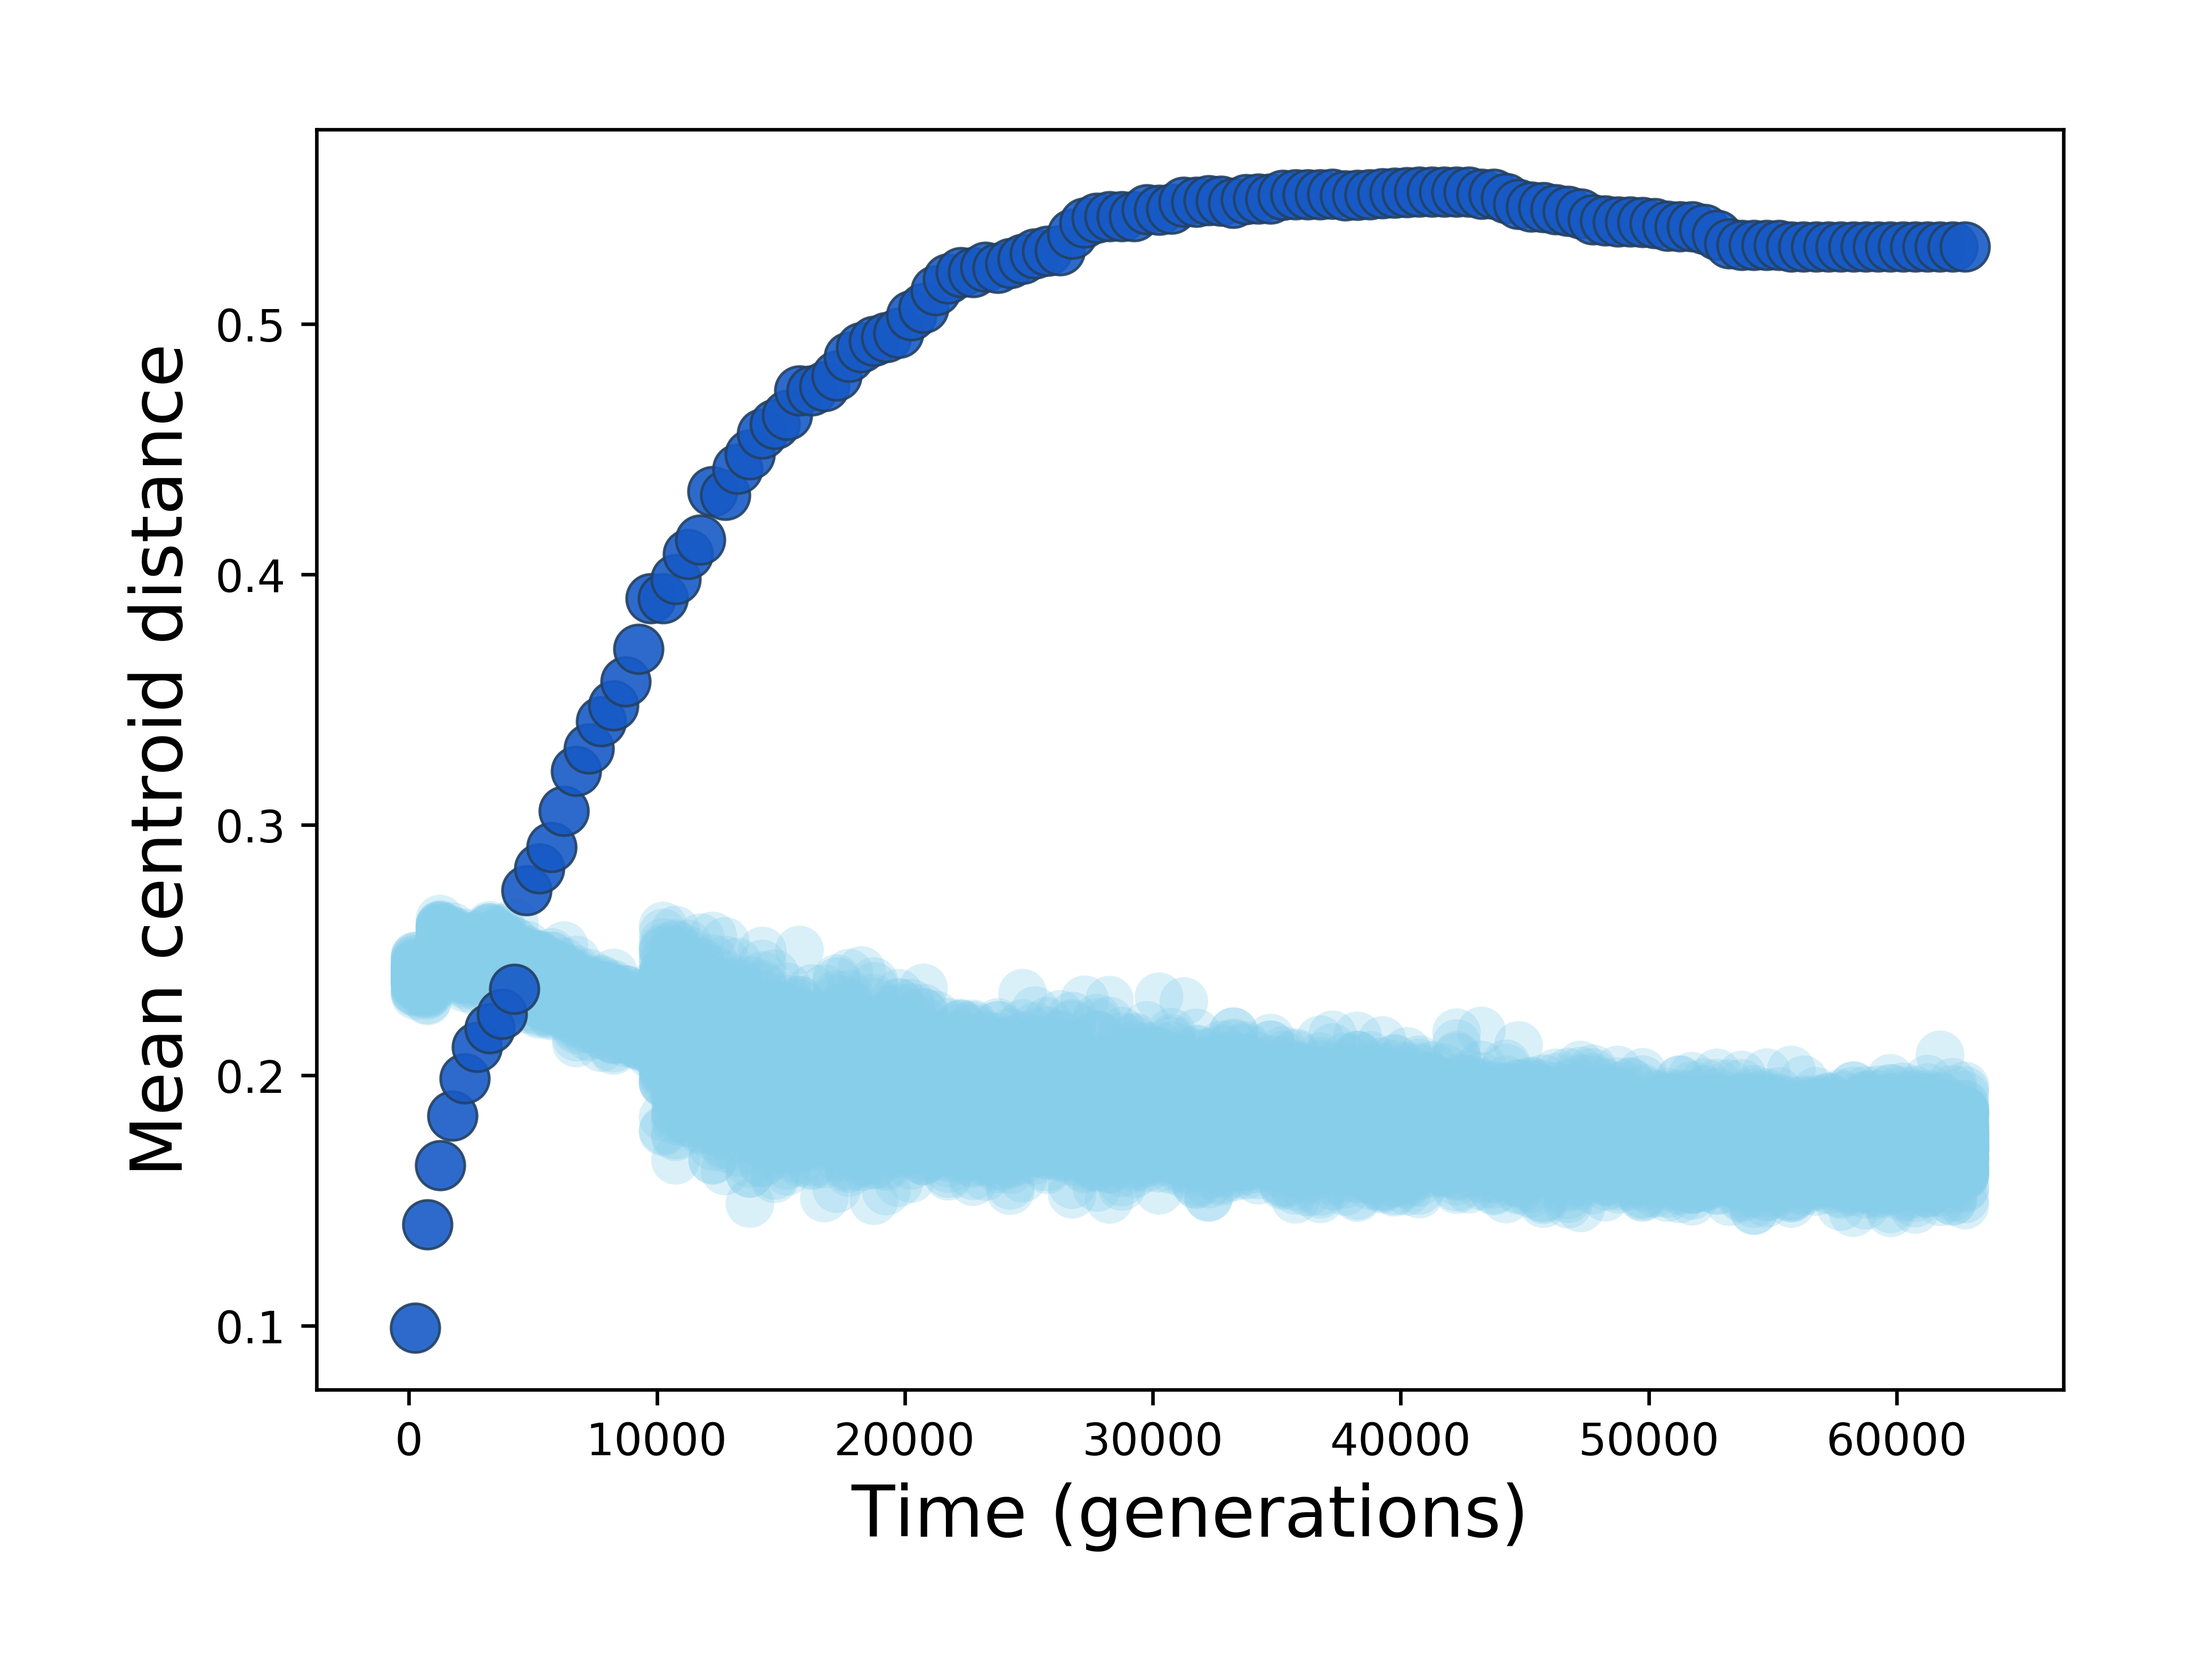
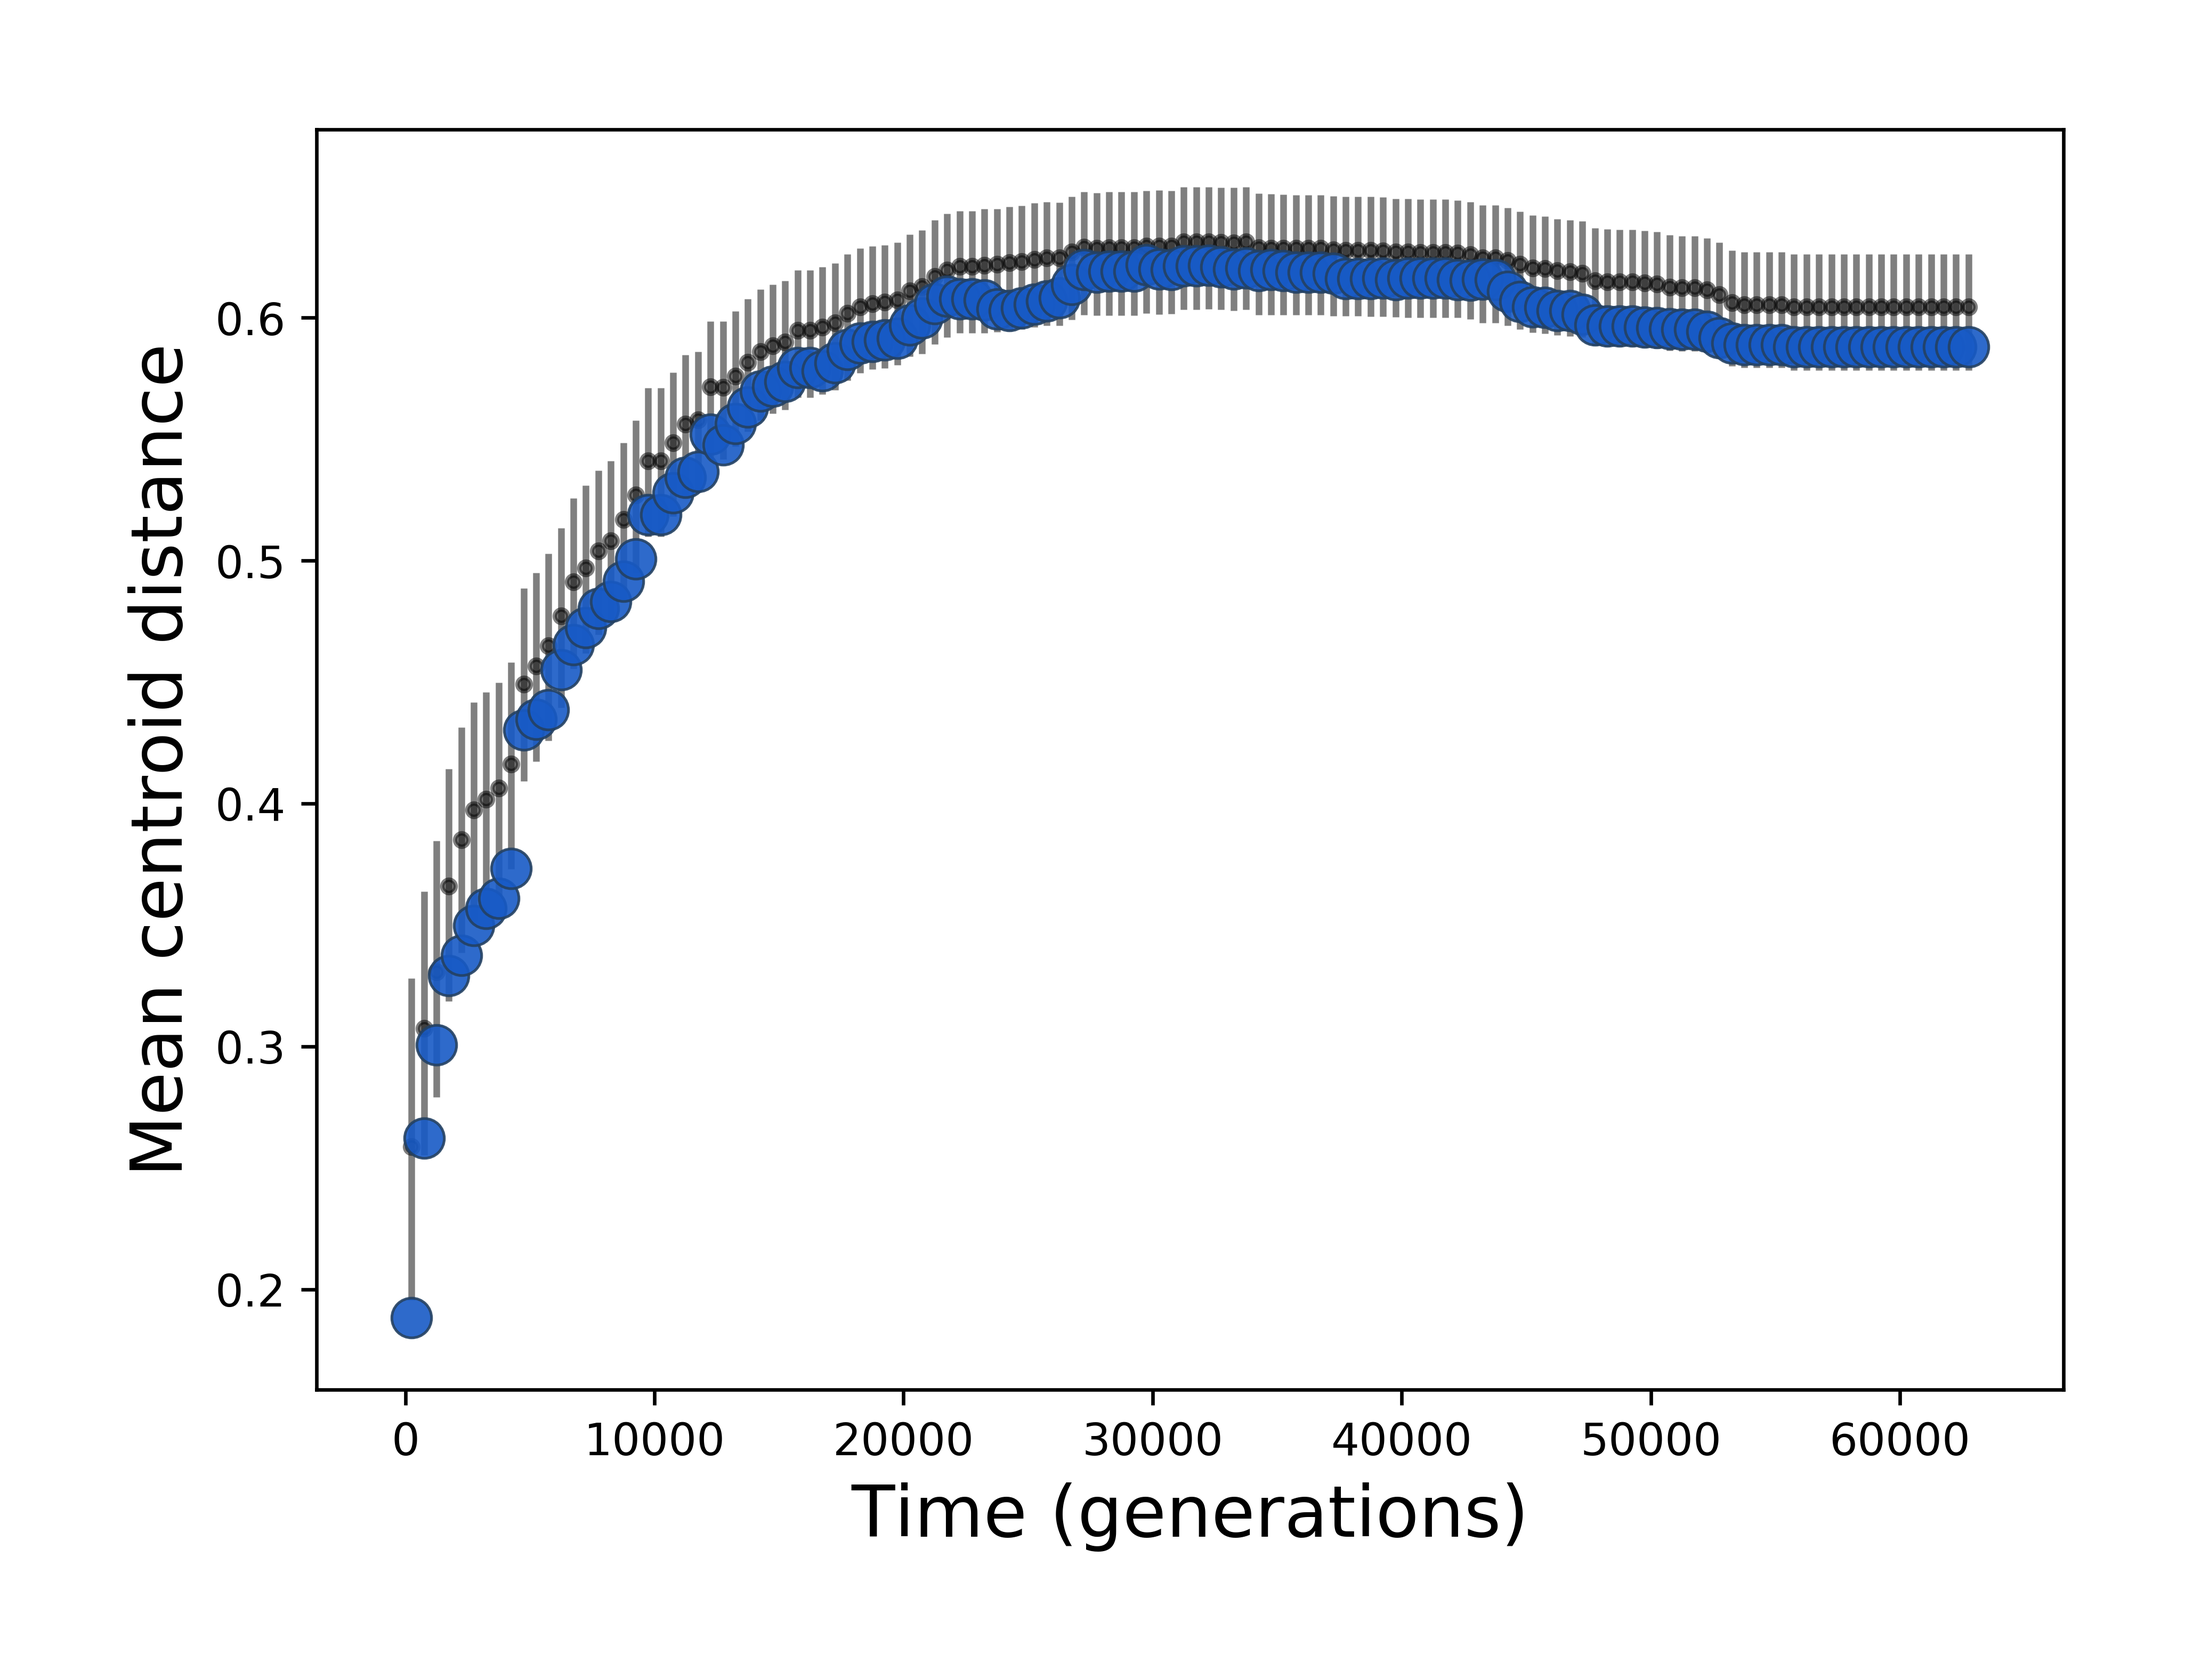
permutation_scatter_good.

diff --git a/Python/make_figs.py b/Python/make_figs.py
@@ -118,7 +118,7 @@ def plot_pcoa(dataset):
 
 
 
-def plot_permutation(dataset, analysis = 'PCA'):
+def plot_permutation(dataset, analysis = 'PCA', alpha = 0.05):
     if dataset == 'tenaillon':
         df_path = pt.get_path() + '/data/Tenaillon_et_al/gene_by_pop.txt'
         df = pd.read_csv(df_path, sep = '\t', header = 'infer', index_col = 0)
@@ -155,16 +155,69 @@ def plot_permutation(dataset, analysis = 'PCA'):
         fig.savefig(plot_out, bbox_inches = "tight", pad_inches = 0.4, dpi = 600)
         plt.close()
 
+    elif dataset == 'good':
+        df_path = pt.get_path() + '/data/Good_et_al/gene_by_pop.txt'
+        df = pd.read_csv(df_path, sep = '\t', header = 'infer', index_col = 0)
+        to_exclude = pt.complete_nonmutator_lines()
+        to_exclude.append('p5')
+        df_nonmut = df[df.index.str.contains('|'.join( to_exclude))]
+        # remove columns with all zeros
+        df_nonmut = df_nonmut.loc[:, (df_nonmut != 0).any(axis=0)]
+        df_delta = pt.likelihood_matrix(df_nonmut, 'Good_et_al').get_likelihood_matrix()
+        if analysis == 'PCA':
+            X = pt.hellinger_transform(df_delta)
+            pca = PCA()
+            df_out = pca.fit_transform(X)
+        elif analysis == 'cMDS':
+            df_delta_bc = np.sqrt(pt.get_scipy_bray_curtis(df_delta.as_matrix()))
+            df_out = pt.cmdscale(df_delta_bc)[0]
+
+        #mcd = pt.get_mean_centroid_distance(df_out, k = 3)
+        time_points = [ int(x.split('_')[1]) for x in df_nonmut.index.values]
+        time_points_set = sorted(list(set([ int(x.split('_')[1]) for x in df_nonmut.index.values])))
+
+        df_rndm_delta_out = pd.DataFrame(data=df_out, index=df_delta.index)
+        mcds = []
+        for tp in time_points_set:
+            df_rndm_delta_out_tp = df_rndm_delta_out[df_rndm_delta_out.index.str.contains('_' + str(tp))]
+            mcds.append(pt.get_mean_centroid_distance(df_rndm_delta_out_tp.as_matrix(), k=3))
+
+        mcd_perm_path = pt.get_path() + '/data/Good_et_al/permute_' + analysis + '.txt'
+        mcd_perm = pd.read_csv(mcd_perm_path, sep = '\t', header = 'infer', index_col = 0)
+        mcd_perm_x = np.sort(list(set(mcd_perm.Generation.tolist())))
+        lower_ci = []
+        upper_ci = []
+        mean_mcds = []
+        for x in mcd_perm_x:
+            mcd_perm_y = mcd_perm.loc[mcd_perm['Generation'] == x]
+            mcd_perm_y_sort = np.sort(mcd_perm_y.MCD.tolist())
+            mean_mcd_perm_y = np.mean(mcd_perm_y_sort)
+            mean_mcds.append(mean_mcd_perm_y)
+            lower_ci.append(mean_mcd_perm_y - mcd_perm_y_sort[int(len(mcd_perm_y_sort) * alpha)])
+            upper_ci.append(abs(mean_mcd_perm_y - mcd_perm_y_sort[int(len(mcd_perm_y_sort) * (1 - alpha))]))
+
+        fig = plt.figure()
+
+        plt.errorbar(mcd_perm_x, mean_mcds, yerr = [lower_ci, upper_ci], fmt = 'o', alpha = 0.5, \
+            barsabove = True, marker = '.', mfc = 'k', mec = 'k', c = 'k', zorder=1)
+        plt.scatter(time_points_set, mcds, c='#175ac6', marker = 'o', s = 80, \
+            edgecolors='#244162', linewidth = 0.6, alpha = 0.9, zorder=2)#, edgecolors='none')
+
+        plt.xlabel("Time (generations)", fontsize = 16)
+        plt.ylabel("Mean centroid distance", fontsize = 16)
+        fig.tight_layout()
+        fig.savefig(pt.get_path() + '/figs/permutation_scatter_good.png', bbox_inches = "tight", pad_inches = 0.4, dpi = 600)
+        plt.close()
+
     else:
-        print('finish this function')
+        print('Dataset argument not accepted')
 
 
 def plot_mcd_pcoa_good():
     df_path = pt.get_path() + '/data/Good_et_al/gene_by_pop_delta.txt'
     df = pd.read_csv(df_path, sep = '\t', header = 'infer', index_col = 0)
-    df_null_path = pt.get_path() + '/data/Good_et_al/permute.txt'
+    df_null_path = pt.get_path() + '/data/Good_et_al/permute_PCA.txt'
     df_null = pd.read_csv(df_null_path, sep = '\t', header = 'infer', index_col = 0)
-    #print(df_null)
     to_exclude = pt.complete_nonmutator_lines()
     to_exclude.append('p5')
     df = df[df.index.str.contains('|'.join( to_exclude))]
@@ -178,11 +231,13 @@ def plot_mcd_pcoa_good():
     for time in times:
         time_cmds = df_cmds[df_cmds.index.str.contains('_' + str(time))].as_matrix()
         mcds.append(pt.get_mean_centroid_distance(time_cmds, k = 5))
-        time_null_mcd = df_null.loc[df_null['Time'] == time].MCD.values
+        time_null_mcd = df_null.loc[df_null['Generation'] == time].MCD.values
         plt.scatter([int(time)]* len(time_null_mcd), time_null_mcd, c='#87CEEB', marker = 'o', s = 120, \
             edgecolors='none', linewidth = 0.6, alpha = 0.3)#, edgecolors='none')
     plt.scatter(times, mcds, c='#175ac6', marker = 'o', s = 120, \
         edgecolors='#244162', linewidth = 0.6, alpha = 0.9)#, edgecolors='none')
+
+
 
     plt.xlabel("Time (generations)", fontsize = 16)
     plt.ylabel("Mean centroid distance", fontsize = 16)
@@ -265,7 +320,6 @@ def draw_graph(graph, labels=None, graph_layout='shell',
     edge_labels = dict(zip(graph, labels))
     #nx.draw_networkx_edge_labels(G, graph_pos, edge_labels=edge_labels,
     #                             label_pos=edge_text_pos)
-
     # show graph
     #plt.show()
     plt.savefig(pt.get_path() + '/figs/network_tenaillon.png', bbox_inches = "tight", pad_inches = 0.4, dpi = 600)
@@ -292,8 +346,7 @@ def plot_network():
 
 
 
-#plot_mcd_pcoa_good()
 #plot_pcoa('tenaillon')
 #example_gene_space()
-#plot_permutation('tenaillon')
-plot_network()
+plot_permutation('good')
+#plot_network()

diff --git a/Python/run_analysis.py b/Python/run_analysis.py
@@ -87,5 +87,5 @@ def run_permutation(iter, analysis = 'PCA', dataset = 'tenaillon'):
         df_out.close()
 
 
-run_permutation(10000, dataset = 'good')
+#run_permutation(10000, dataset = 'good')
 #time_permute()
